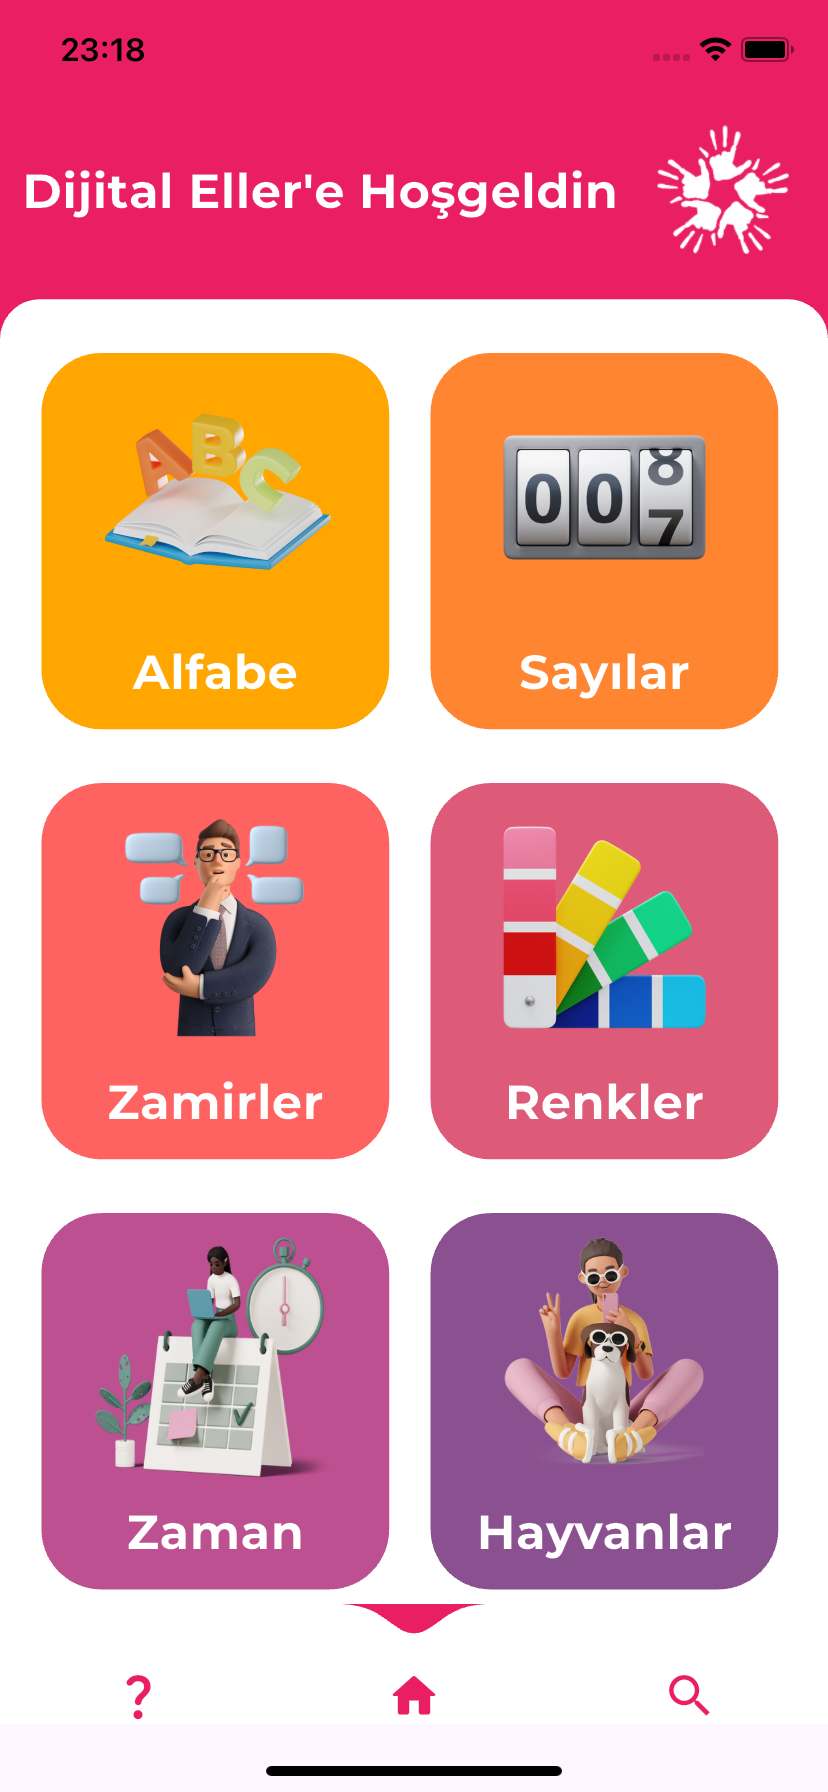
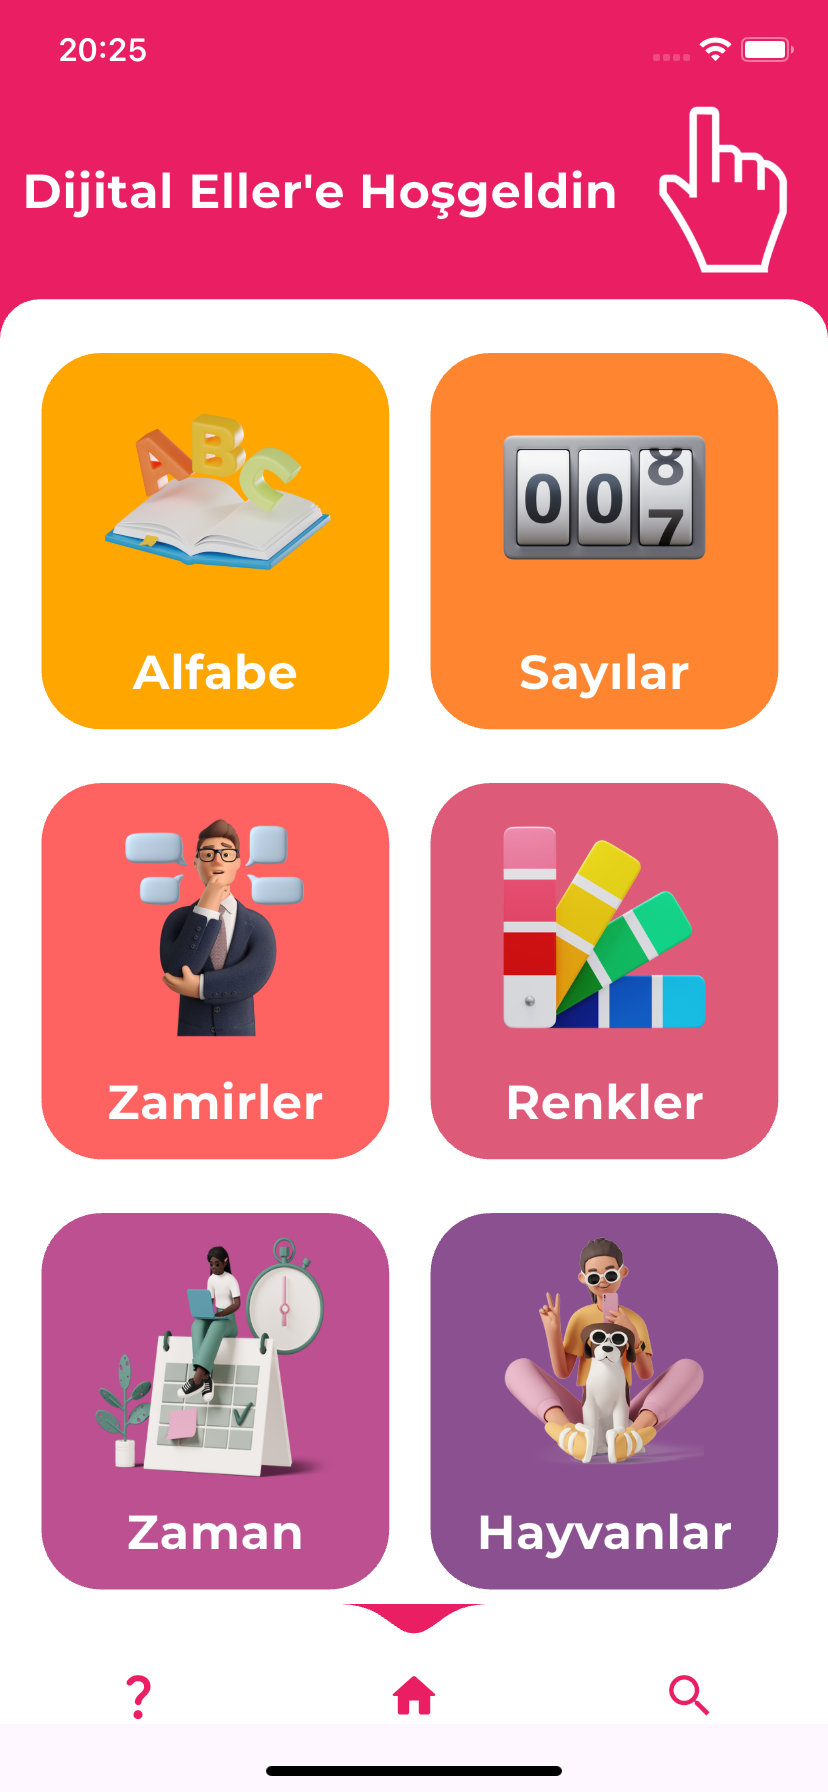
düzenleme

Changed region(s): [[0.785, 0.0625, 0.9662, 0.1562], [0.8454, 0.0, 0.9662, 0.0312], [0.0604, 0.0, 0.1812, 0.0312]]

diff --git a/index.html b/index.html
@@ -9,7 +9,7 @@
 <meta name="description" content="">
 <meta name="viewport" content="width=device-width, initial-scale=1">
 <title>Dijital Eller</title>
-<link rel="shortcut icon" href="images/newAST/icon.jpeg">
+<link rel="shortcut icon" href="images/newAST/icon2.png">
 
 <link rel="stylesheet" href="css/bootstrap.min.css">
 <link rel="stylesheet" href="css/jquery.fancybox.css">
@@ -34,7 +34,7 @@
 <!-- header section -->
 <section class="banner" role="banner">
   <header id="header">
-    <div class="header-content clearfix"> <a class="logo" href="https://dijitaleller.com.tr"><img class="scrollReveal1 iconONE" src="images/newAST/icon.jpeg" alt=""></a> 
+    <div class="header-content clearfix"> <a class="logo" href="https://dijitaleller.com.tr"><img class="scrollReveal1 iconONE" src="images/newAST/icon.png" alt=""></a> 
       <!-- navigation section  -->
       <nav class="navigation" role="navigation">
         <ul class="primary-nav scrollReveal4" >
@@ -192,7 +192,6 @@ src="http://www.youtube.com/embed/k32xyP3KuWE?autoplay=0" frameborder="0" allowf
     <div class="item "><img src="images/app-screen/sc1.png"></div>
     <div class="item "><img src="images/app-screen/sc2.png"></div>
     <div class="item "><img src="images/app-screen/sc8.png"></div>
-    <div class="item "><img src="images/app-screen/sc4.png"></div>
     <div class="item "><img src="images/app-screen/sc9.png"></div>
     <div class="item "><img src="images/app-screen/sc5.png"></div>
     <div class="item "><img src="images/app-screen/sc6.png"></div>
@@ -270,7 +269,7 @@ src="http://www.youtube.com/embed/k32xyP3KuWE?autoplay=0" frameborder="0" allowf
       <div class="col-md-12">
         <p>
         <ul class="footer-share">
-          <li><a href="#"><i class="fa fa-facebook scrollReveal2"></i></a></li>
+          <!--<li><a href="#"><i class="fa fa-facebook scrollReveal2"></i></a></li>-->
           <li><a href="https://x.com/dijital_eller"><i class="fa fa-twitter scrollReveal4"></i></a></li>
           <li><a href="https://www.instagram.com/dijital_eller/"><i class="fa fa-instagram scrollReveal6"></i></a></li>
           <li><a href="https://www.linkedin.com/company/dijital-eller/"><i class="fa fa-linkedin scrollReveal8"></i></a></li>

diff --git a/css/main.css b/css/main.css
@@ -172,7 +172,7 @@ ul li {
 }
 .navigation li {
 	display: inline-block;
-}
+}	
 .navigation a {
 	color: rgba(255, 255, 255, 0.8);
 	font-size: 12px;
@@ -182,7 +182,7 @@ ul li {
 	text-transform: uppercase;
 }
 .navigation a:hover, .navigation a.active {
-	color: #fff;
+	color: #FF3EA5;
 }
 .nav-toggle {
 	display: none;
@@ -324,7 +324,7 @@ ul li {
 	Banner
 -------------------------------------------------------------------------------*/
 .banner {
-	background-color: #3b3be8;
+	background-color: #5E17EB;
 	min-height: 750px;
 }
 .banner-text {
@@ -608,7 +608,7 @@ ul li {
 	border:#dedede 1px solid;
 }
 .conForm .submitBnt {
-	background:#a0ce4e;
+	background:#FF3EA5;
 	color: #fff;
 	padding: 15px 40px;
 	font-size: 13px;
@@ -622,7 +622,7 @@ ul li {
 	text-transform: uppercase;
 }
 .conForm .submitBnt:hover {
-	background:#3d3d3d;
+	background:#e33592;
 	color:#fff;
 }
 .error_message {

diff --git a/css/responsive.css b/css/responsive.css
@@ -153,15 +153,15 @@ width:65%;
 .NWpng{
    max-width: 130%;
    position: relative;
-   bottom: -65px;
-   left: -215px;
+   bottom: -95px;
+   left: -280px;
 }
 
 @media (min-width: 600px) and (max-width: 1199px){
     .NWpng{
     max-width: 130%;
     position: relative;
-    bottom: -194px;
+    bottom: -218px;
     left: -195px;
     }
 }
@@ -171,7 +171,7 @@ width:65%;
     max-width: 130%;
     position: relative;
     bottom: -200px;
-    left: -195px;
+    left: -260px;
     }
 }
 
